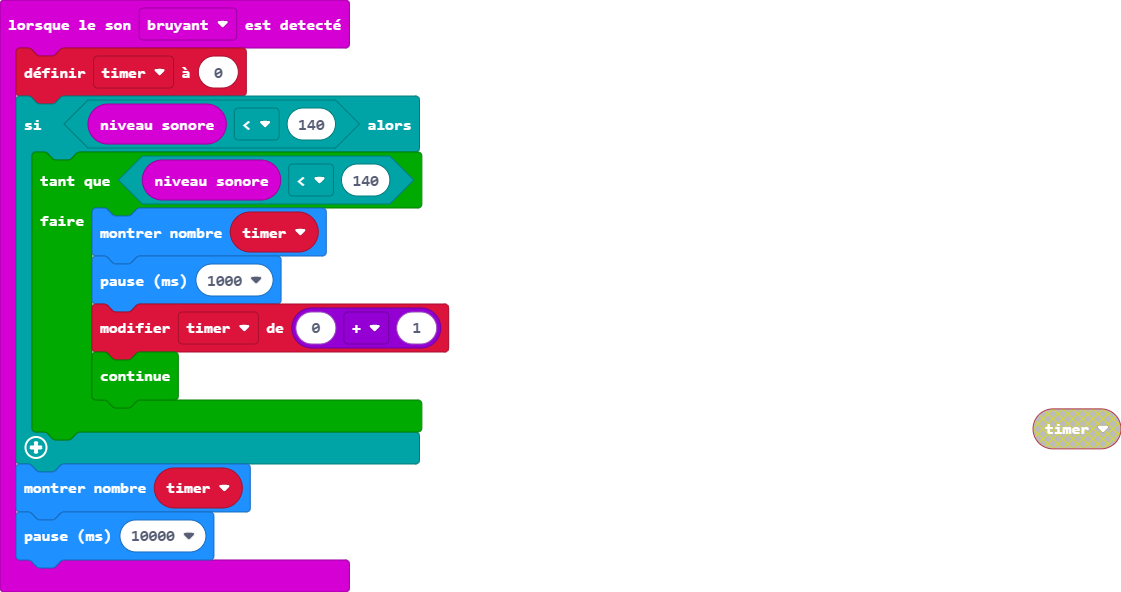
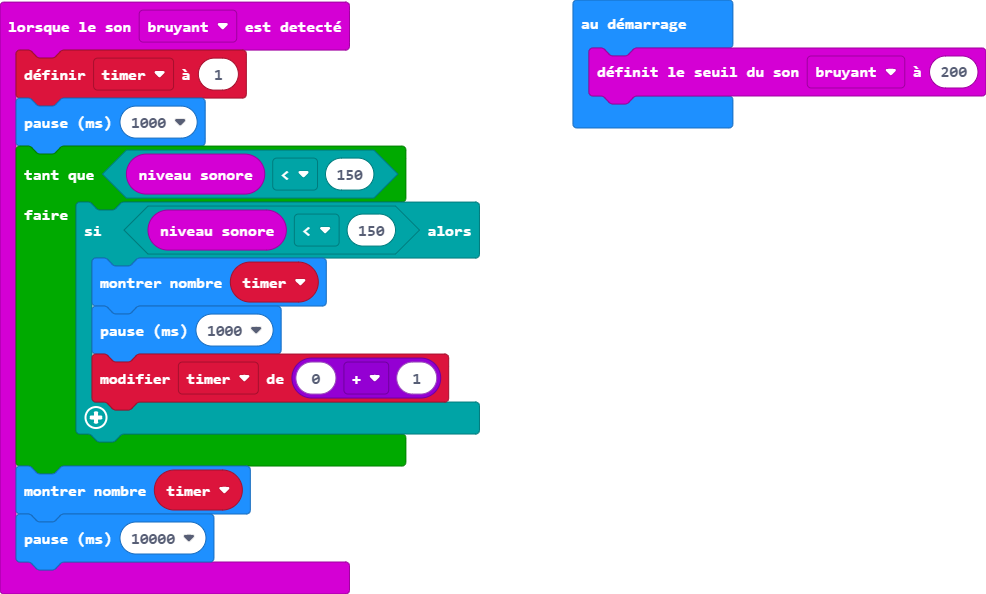
Mise à jour main.blocks, main.ts

diff --git a/main.ts b/main.ts
@@ -1,14 +1,15 @@
-let timer = 0
 input.onSound(DetectedSound.Loud, function () {
-    timer = 0
-    if (input.soundLevel() < 140) {
-        while (input.soundLevel() < 140) {
+    timer = 1
+    basic.pause(1000)
+    while (input.soundLevel() < 150) {
+        if (input.soundLevel() < 150) {
             basic.showNumber(timer)
             basic.pause(1000)
             timer += 0 + 1
-            continue;
         }
     }
     basic.showNumber(timer)
     basic.pause(10000)
 })
+let timer = 0
+input.setSoundThreshold(SoundThreshold.Loud, 200)
